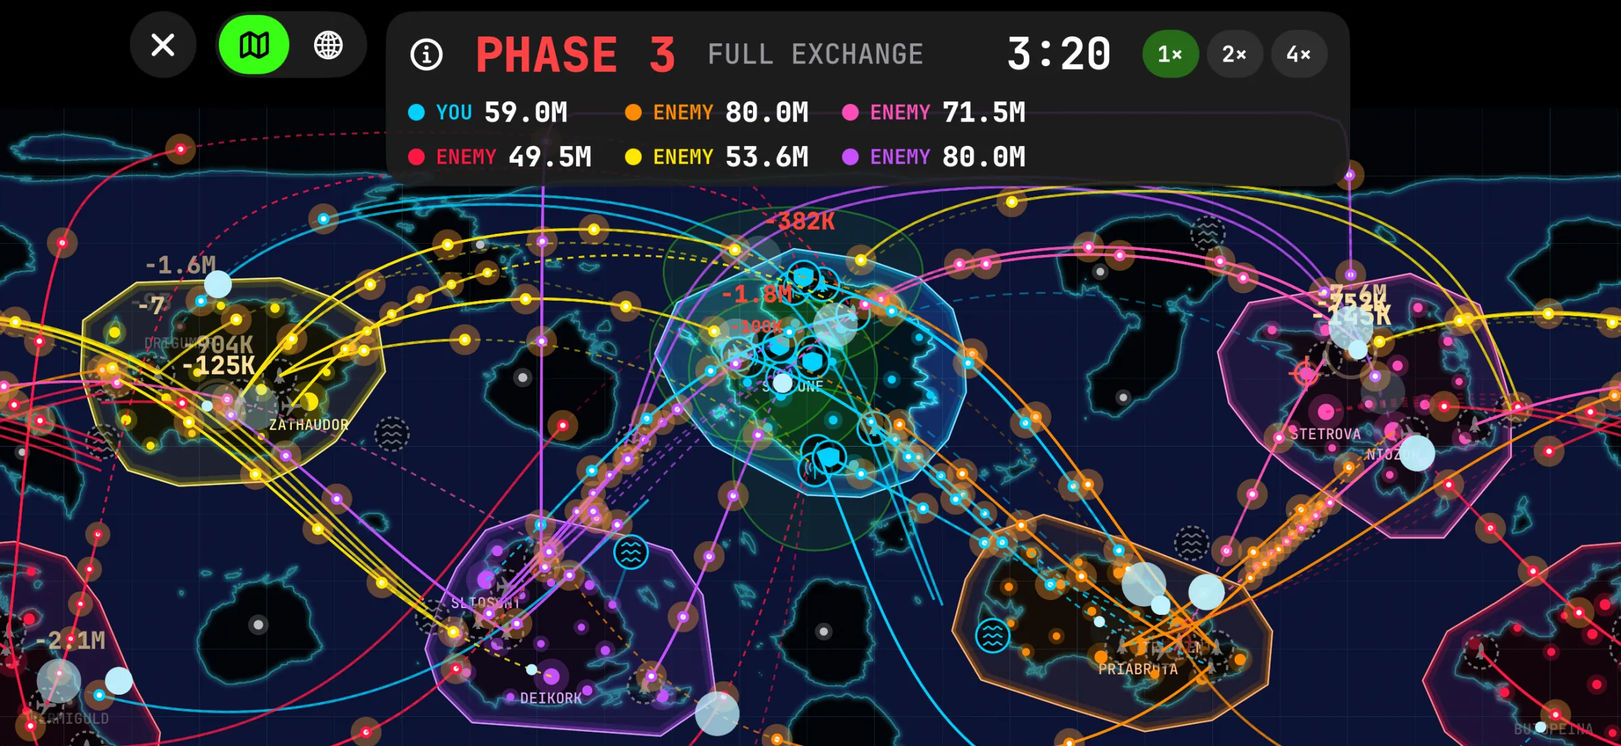
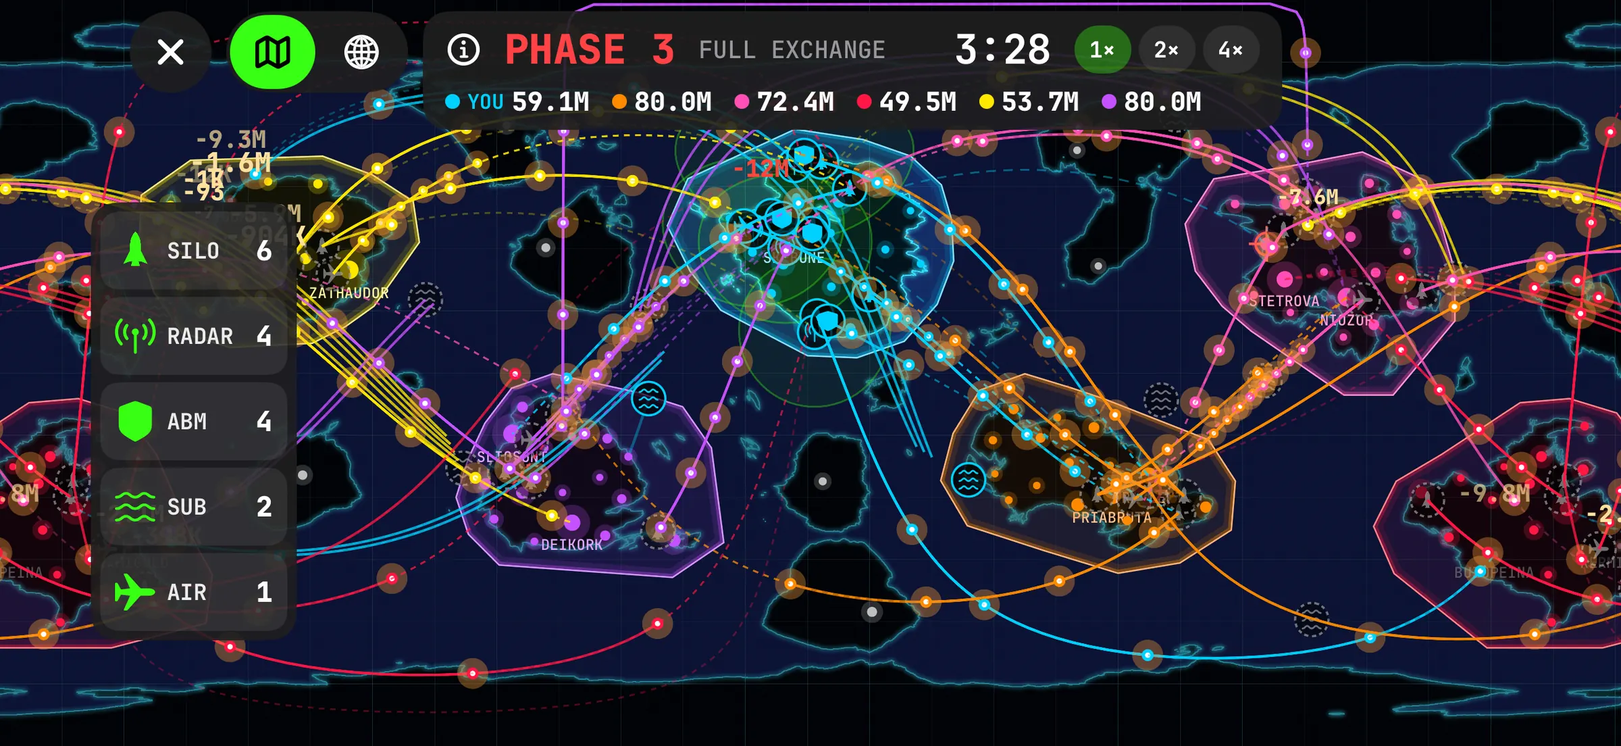
Nuclear Wars: version 1.7 section with the what's-new video
A new section on the project page covers 1.7 (out November 24 on all
three devices): the what's-new video and six changes taken from the
release notes — chased-down intercepts, techno soundtrack with a music
switch, new sound effects, phases voiced in 10 languages, quick unit
switching, matches opening on the 3D globe. Since 1.7 makes the globe
the default on iPhone and iPad, that section now leads with the globe,
its screenshots are retaken on the 3D globe and in AR, and the project
description says the same.

Claude-Session: https://claude.ai/code/session_0161QGWmmV37tMQet8fqUMmh

diff --git a/content/projects.ts b/content/projects.ts
@@ -58,7 +58,7 @@ export const projects: Project[] = [
     featured: true,
     period: { start: "2026-06" },
     released: "2026-09-08",
-    updated: "2026-11-14",
+    updated: "2026-11-25",
     platform: "visionOS, iOS, iPadOS",
     applicationCategory: "GameApplication",
     price: "9.99",
@@ -106,12 +106,13 @@ export const projects: Project[] = [
           "On Apple Vision Pro, Nuclear Wars turns a room into a Cold War command center. A living 3D globe floats in front of the player: drag to rotate, pinch to zoom, walk around it. Every match escalates through three phases — preparation, cold war, full exchange — and there is no winner: when the clock runs out, whoever keeps more of their population alive loses less. Firing reveals a unit's position permanently, and you only see what your radars see, so every launch is a trade-off between striking power and staying hidden.",
           "Under the hood it is Swift, SwiftUI and RealityKit with no game engine. The simulation lives in a pure Swift package with fixed ticks; the render layer only interpolates what it is told. Multiplayer is deterministic lockstep over Game Center: the host is authoritative, clients step only on received tick frames.",
           "Released on the App Store on September 8, 2026 after about three months of solo work and four rounds of App Review: solo play against 1–5 AI commanders, party codes and automatch for up to 6 players with AI filling empty seats, ten store languages, no ads, no accounts, no data collection. It is my second visionOS project, and the hard-won knowledge from both — RealityKit quirks, spatial UI patterns, what App Review asks a game to change and why — became a reusable skill for building visionOS apps with AI agents.",
-          "On November 11, 2026 the game came to iPhone and iPad in the same App Store listing, built from the same codebase: the same simulation package and the same RealityKit globe. On a touch screen the war plays out on a seamless 2D world map by default; one tap switches to the 3D globe or puts it on a real table in AR. Players on iPhone, iPad and Apple Vision Pro meet in the same Game Center matches.",
+          "On November 11, 2026 the game came to iPhone and iPad in the same App Store listing, built from the same codebase: the same simulation package and the same RealityKit globe. On a touch screen the war plays out on the 3D globe or on a seamless 2D world map, one tap apart, and AR puts the globe on a real table. Players on iPhone, iPad and Apple Vision Pro meet in the same Game Center matches.",
+          "Version 1.7, out in late November 2026 on all three devices, rebuilt the intercepts and the sound. A shot-down missile no longer vanishes in a flash: it keeps flying until an interceptor catches it and destroys it in mid-air. Matches got their own techno soundtrack with a music switch, the sound effects were redone, phase announcements are voiced in 10 languages, and units of the same type can be switched quickly. On iPhone and iPad every match now opens on the 3D globe.",
         ],
         highlights: [
           "Spatial 3D globe in RealityKit: territory, fog of war and radar coverage are equirectangular textures on thin concentric spheres instead of overlapping meshes",
           "Deterministic cross-platform lockstep multiplayer over Game Center (GKMatch): authoritative host, tick frames",
-          "iPhone and iPad version: a 2D world map by default, the same RealityKit globe in 3D or on a real table in AR (ARKit), cross-play with Apple Vision Pro",
+          "iPhone and iPad version: the same RealityKit globe (the default since 1.7), a seamless 2D world map, or the globe on a real table in AR (ARKit); cross-play with Apple Vision Pro",
           "Five unit types with real trade-offs — silos (strike or air-defense mode), radars, ABM batteries, submarines, airbases — and a permanent reveal on every launch",
           "Solo against 1–5 AI commanders, Game Center party codes and automatch for up to 6 players, AI fills empty seats",
         ],
@@ -124,12 +125,13 @@ export const projects: Project[] = [
           "На Apple Vision Pro Nuclear Wars превращает комнату в командный центр холодной войны. Живой трёхмерный глобус парит перед игроком: вращайте его перетаскиванием, приближайте щипком, обходите вокруг. Каждый матч проходит три фазы эскалации — подготовка, холодная война, обмен ударами — и победителя нет: когда таймер истекает, кто сохранил больше населения, тот проиграл меньше. Стрельба навсегда раскрывает позицию юнита, а видите вы только то, что видят ваши радары, поэтому каждый пуск — размен между силой удара и скрытностью.",
           "Внутри — Swift, SwiftUI и RealityKit, без игрового движка. Симуляция живёт в отдельном Swift-пакете с фиксированным тиком; рендер только интерполирует то, что ему отдали. Мультиплеер — детерминированный lockstep поверх Game Center: хост авторитетен, клиенты шагают только по полученным тик-кадрам.",
           "Вышла в App Store 8 сентября 2026 года после примерно трёх месяцев соло-работы и четырёх раундов App Review: соло против 1–5 ИИ-командующих, коды группы и автоподбор до 6 игроков, свободные места добирает ИИ, десять языков в сторе, без рекламы, аккаунтов и сбора данных. Это мой второй проект под visionOS, и набитые на двух проектах шишки — особенности RealityKit, паттерны пространственного UI, что и почему просит поменять App Review — стали переиспользуемым скиллом для разработки visionOS-приложений с AI-агентами.",
-          "11 ноября 2026 года игра вышла на iPhone и iPad — в той же записи App Store и из той же кодовой базы: тот же пакет симуляции и тот же глобус на RealityKit. На тач-экране война по умолчанию идёт на бесшовной 2D-карте мира; одно касание — и карта становится 3D-глобусом или встаёт на реальный стол в AR. Игроки на iPhone, iPad и Apple Vision Pro встречаются в одних матчах Game Center.",
+          "11 ноября 2026 года игра вышла на iPhone и iPad — в той же записи App Store и из той же кодовой базы: тот же пакет симуляции и тот же глобус на RealityKit. На тач-экране война идёт на 3D-глобусе или на бесшовной 2D-карте мира — между ними одно касание, а в AR глобус встаёт на реальный стол. Игроки на iPhone, iPad и Apple Vision Pro встречаются в одних матчах Game Center.",
+          "Версия 1.7 вышла в конце ноября 2026 года на всех трёх устройствах и переделала перехваты и звук. Сбитая ракета больше не исчезает во вспышке: она летит дальше, перехватчик догоняет её и уничтожает взрывом в воздухе. У матчей появился свой техно-саундтрек с выключателем музыки, звуковые эффекты сделаны заново, смена фаз озвучена на 10 языках, а между юнитами одного типа можно быстро переключаться. На iPhone и iPad каждый матч теперь открывается на 3D-глобусе.",
         ],
         highlights: [
           "Пространственный 3D-глобус в RealityKit: территории, туман войны и покрытие радаров — эквиректангулярные текстуры на тонких концентрических сферах вместо пересекающихся мешей",
           "Детерминированный кроссплатформенный lockstep-мультиплеер поверх Game Center (GKMatch): авторитетный хост, тик-кадры",
-          "Версия для iPhone и iPad: по умолчанию 2D-карта мира, тот же RealityKit-глобус в 3D или на реальном столе в AR (ARKit), кросс-плей с Apple Vision Pro",
+          "Версия для iPhone и iPad: тот же RealityKit-глобус (с 1.7 — по умолчанию), бесшовная 2D-карта мира или глобус на реальном столе в AR (ARKit); кросс-плей с Apple Vision Pro",
           "Пять типов юнитов с реальными компромиссами — шахты (удар или режим ПВО), радары, батареи ПРО, подлодки, авиабазы — и необратимое раскрытие при каждом пуске",
           "Соло против 1–5 ИИ-командующих, коды группы и автоподбор Game Center до 6 игроков, пустые места занимает ИИ",
         ],
@@ -142,12 +144,13 @@ export const projects: Project[] = [
           "En Apple Vision Pro, Nuclear Wars convierte una habitación en un centro de mando de la Guerra Fría. Un globo 3D vivo flota delante del jugador: arrástralo para girarlo, pellizca para acercarlo, camina a su alrededor. Cada partida escala en tres fases — preparación, guerra fría, intercambio total — y no hay ganador: cuando se agota el reloj, quien conserva más población pierde menos. Disparar revela la posición de una unidad para siempre, y solo ves lo que ven tus radares, así que cada lanzamiento es un intercambio entre potencia de ataque y sigilo.",
           "Por dentro es Swift, SwiftUI y RealityKit, sin motor de juego. La simulación vive en un paquete Swift puro con ticks fijos; la capa de render solo interpola lo que recibe. El multijugador es lockstep determinista sobre Game Center: el anfitrión es autoritativo, los clientes solo avanzan con los tick frames recibidos.",
           "Publicado en la App Store el 8 de septiembre de 2026 tras unos tres meses de trabajo en solitario y cuatro rondas de App Review: modo solo contra 1–5 comandantes IA, códigos de grupo y emparejamiento automático para hasta 6 jugadores con IA ocupando los asientos libres, diez idiomas en la tienda, sin anuncios, sin cuentas, sin recogida de datos. Es mi segundo proyecto para visionOS, y lo aprendido a golpes en ambos — peculiaridades de RealityKit, patrones de UI espacial, qué pide cambiar App Review a un juego y por qué — se convirtió en una skill reutilizable para construir apps de visionOS con agentes de IA.",
-          "El 11 de noviembre de 2026 el juego llegó a iPhone y iPad, en la misma ficha de la App Store y desde el mismo código: el mismo paquete de simulación y el mismo globo de RealityKit. En una pantalla táctil la guerra se juega por defecto en un mapa del mundo 2D continuo; con un toque pasa al globo 3D o se coloca sobre una mesa real en realidad aumentada. Los jugadores de iPhone, iPad y Apple Vision Pro se enfrentan en las mismas partidas de Game Center.",
+          "El 11 de noviembre de 2026 el juego llegó a iPhone y iPad, en la misma ficha de la App Store y desde el mismo código: el mismo paquete de simulación y el mismo globo de RealityKit. En una pantalla táctil la guerra se juega en el globo 3D o en un mapa del mundo 2D continuo, a un toque de distancia, y la realidad aumentada coloca el globo sobre una mesa real. Los jugadores de iPhone, iPad y Apple Vision Pro se enfrentan en las mismas partidas de Game Center.",
+          "La versión 1.7, publicada a finales de noviembre de 2026 en los tres dispositivos, rehízo las intercepciones y el sonido. Un misil derribado ya no desaparece en un destello: sigue volando hasta que un interceptor lo alcanza y lo destruye en el aire. Las partidas tienen su propia banda sonora techno con un interruptor de música, los efectos de sonido son nuevos, los anuncios de fase tienen voz en 10 idiomas y se puede cambiar rápido entre unidades del mismo tipo. En iPhone y iPad cada partida empieza ahora en el globo 3D.",
         ],
         highlights: [
           "Globo 3D espacial en RealityKit: territorio, niebla de guerra y cobertura de radar son texturas equirectangulares sobre finas esferas concéntricas en lugar de mallas superpuestas",
           "Multijugador lockstep determinista y multiplataforma sobre Game Center (GKMatch): anfitrión autoritativo, tick frames",
-          "Versión para iPhone y iPad: mapa del mundo 2D por defecto, el mismo globo de RealityKit en 3D o sobre una mesa real en RA (ARKit), juego cruzado con Apple Vision Pro",
+          "Versión para iPhone y iPad: el mismo globo de RealityKit (por defecto desde la 1.7), un mapa del mundo 2D continuo o el globo sobre una mesa real en RA (ARKit); juego cruzado con Apple Vision Pro",
           "Cinco tipos de unidad con compromisos reales — silos (ataque o modo antiaéreo), radares, baterías ABM, submarinos, bases aéreas — y revelado permanente en cada lanzamiento",
           "Solo contra 1–5 comandantes IA, códigos de grupo y emparejamiento automático de Game Center para hasta 6 jugadores, la IA ocupa los asientos libres",
         ],

diff --git a/content/landings/nuclear-wars.ts b/content/landings/nuclear-wars.ts
@@ -22,8 +22,80 @@ export const nuclearWarsLanding = {
     ru: ["Apple Vision Pro", "iPhone и iPad", "Кросс-плей", "До 6 игроков", "Game Center", "1–5 ИИ-командующих", "Без рекламы", "Без аккаунтов", "Без сбора данных", "10 языков", "Нативный RealityKit"],
     es: ["Apple Vision Pro", "iPhone y iPad", "Juego cruzado", "Hasta 6 jugadores", "Game Center", "1–5 comandantes IA", "Sin anuncios", "Sin cuentas", "Sin recogida de datos", "10 idiomas", "RealityKit nativo"],
   } satisfies Localized<string[]>,
+  update: {
+    kicker: { en: "Version 1.7", ru: "Версия 1.7", es: "Versión 1.7" } satisfies Localized,
+    title: { en: "Intercepts you can watch.", ru: "Перехват, который видно.", es: "Intercepciones que se ven." } satisfies Localized,
+    lead: {
+      en: "Version 1.7 rebuilt the intercepts and all of the sound, on Apple Vision Pro, iPhone and iPad.",
+      ru: "В версии 1.7 переделаны перехваты и весь звук — на Apple Vision Pro, iPhone и iPad.",
+      es: "La versión 1.7 rehace las intercepciones y todo el sonido, en Apple Vision Pro, iPhone y iPad.",
+    } satisfies Localized,
+    video: {
+      id: "hlTb57c13Dw",
+      title: {
+        en: "What’s new in Nuclear Wars 1.7 (Apple Vision Pro, iPhone, iPad)",
+        ru: "Что нового в Nuclear Wars 1.7 (Apple Vision Pro, iPhone, iPad)",
+        es: "Novedades de Nuclear Wars 1.7 (Apple Vision Pro, iPhone, iPad)",
+      } satisfies Localized,
+      caption: {
+        en: "What’s new in 1.7 in under a minute, on Apple Vision Pro, iPhone and iPad.",
+        ru: "Что нового в 1.7 — меньше чем за минуту, на Apple Vision Pro, iPhone и iPad.",
+        es: "Las novedades de la 1.7 en menos de un minuto, en Apple Vision Pro, iPhone y iPad.",
+      } satisfies Localized,
+    },
+    items: [
+      {
+        name: { en: "Interceptors chase missiles down", ru: "Перехватчик догоняет ракету", es: "El interceptor persigue al misil" },
+        text: {
+          en: "A shot-down missile no longer vanishes in a flash: it keeps flying until an interceptor catches it and destroys it in mid-air.",
+          ru: "Сбитая ракета больше не исчезает во вспышке: она летит дальше, перехватчик догоняет её и уничтожает взрывом в воздухе.",
+          es: "Un misil derribado ya no desaparece en un destello: sigue volando hasta que un interceptor lo alcanza y lo destruye en el aire.",
+        },
+      },
+      {
+        name: { en: "Its own soundtrack", ru: "Свой саундтрек", es: "Banda sonora propia" },
+        text: {
+          en: "A driving techno track for matches and a new menu theme. Music switches on and off in the menu and mid-match.",
+          ru: "Напористый техно-трек для матчей и новая тема меню. Музыку можно включить или выключить в меню и прямо в матче.",
+          es: "Un tema techno enérgico para las partidas y un nuevo tema de menú. La música se activa o desactiva en el menú y durante la partida.",
+        },
+      },
+      {
+        name: { en: "Reworked sound effects", ru: "Новые звуковые эффекты", es: "Efectos de sonido renovados" },
+        text: {
+          en: "Launches, intercepts, alerts, radar pings and unit placement all got new sounds.",
+          ru: "Пуски, перехваты, тревоги, сигналы радаров и расстановка юнитов звучат по-новому.",
+          es: "Lanzamientos, intercepciones, alertas, señales de radar y despliegue de unidades suenan de nuevo.",
+        },
+      },
+      {
+        name: { en: "Phases voiced in 10 languages", ru: "Фазы озвучены на 10 языках", es: "Fases con voz en 10 idiomas" },
+        text: {
+          en: "Every phase change is now announced by voice, in all 10 of the game’s languages.",
+          ru: "Смена фазы теперь объявляется голосом — на всех 10 языках игры.",
+          es: "Cada cambio de fase se anuncia ahora con voz, en los 10 idiomas del juego.",
+        },
+      },
+      {
+        name: { en: "Quick unit switching", ru: "Быстрая смена юнитов", es: "Cambio rápido de unidad" },
+        text: {
+          en: "Quickly switch between units of the same type, with a sound on every switch and haptic feedback on iPhone and iPad.",
+          ru: "Быстро переключайтесь между юнитами одного типа: у переключения есть звук, а на iPhone и iPad — тактильный отклик.",
+          es: "Cambia rápido entre unidades del mismo tipo, con sonido en cada cambio y respuesta háptica en iPhone y iPad.",
+        },
+      },
+      {
+        name: { en: "3D globe first", ru: "Сразу на 3D-глобусе", es: "Primero, el globo 3D" },
+        text: {
+          en: "On iPhone and iPad every match now opens on the 3D globe; the 2D map is one tap away.",
+          ru: "На iPhone и iPad каждый матч теперь открывается на 3D-глобусе, а 2D-карта — в одном касании.",
+          es: "En iPhone y iPad cada partida empieza ahora en el globo 3D; el mapa 2D está a un toque.",
+        },
+      },
+    ] satisfies { name: Localized; text: Localized }[],
+  },
   mobile: {
-    kicker: { en: "New", ru: "Новинка", es: "Novedad" } satisfies Localized,
+    kicker: { en: "Cross-play", ru: "Кросс-плей", es: "Juego cruzado" } satisfies Localized,
     title: { en: "Now on iPhone and iPad.", ru: "Теперь на iPhone и iPad.", es: "Ahora en iPhone y iPad." } satisfies Localized,
     lead: {
       en: "The same war, built for touch — and cross-play puts iPhone, iPad and Apple Vision Pro commanders in the same match.",
@@ -32,19 +104,19 @@ export const nuclearWarsLanding = {
     } satisfies Localized,
     modes: [
       {
-        name: { en: "2D map", ru: "2D-карта", es: "Mapa 2D" },
+        name: { en: "3D globe", ru: "3D-глобус", es: "Globo 3D" },
         text: {
-          en: "A seamless world map that wraps around the planet. Tap a unit to command it, tap the map to set a target.",
-          ru: "Бесшовная карта мира вокруг всей планеты. Касание юнита — приказ, касание карты — цель.",
-          es: "Un mapa del mundo continuo que rodea el planeta. Toca una unidad para darle órdenes y el mapa para fijar un objetivo.",
+          en: "Every match opens on the same RealityKit globe as on Apple Vision Pro.",
+          ru: "Каждый матч открывается на том же RealityKit-глобусе, что и на Apple Vision Pro.",
+          es: "Cada partida empieza en el mismo globo de RealityKit que en Apple Vision Pro.",
         },
       },
       {
-        name: { en: "3D globe", ru: "3D-глобус", es: "Globo 3D" },
+        name: { en: "2D map", ru: "2D-карта", es: "Mapa 2D" },
         text: {
-          en: "One tap turns the map into the same RealityKit globe as on Apple Vision Pro.",
-          ru: "Одно касание — и карта становится тем же RealityKit-глобусом, что и на Apple Vision Pro.",
-          es: "Un toque convierte el mapa en el mismo globo de RealityKit que en Apple Vision Pro.",
+          en: "One tap flattens the globe into a seamless world map. Tap a unit to command it, tap the map to set a target.",
+          ru: "Одно касание — и глобус разворачивается в бесшовную карту мира. Касание юнита — приказ, касание карты — цель.",
+          es: "Un toque despliega el globo en un mapa del mundo continuo. Toca una unidad para darle órdenes y el mapa para fijar un objetivo.",
         },
       },
       {
@@ -57,6 +129,46 @@ export const nuclearWarsLanding = {
       },
     ] satisfies { name: Localized; text: Localized }[],
     screenshots: [
+      {
+        src: "/media/nuclear-wars/ios-globe-war.webp",
+        width: 2400,
+        height: 1104,
+        alt: {
+          en: "iPhone, 3D globe in the full exchange: explosions over your sector, radar rings and incoming missile trails, with the unit column and the match HUD",
+          ru: "iPhone, 3D-глобус во время обмена ударами: взрывы над вашим сектором, кольца радаров и следы летящих ракет, слева колонка юнитов, сверху HUD матча",
+          es: "iPhone, globo 3D en el intercambio total: explosiones sobre tu sector, anillos de radar y estelas de misiles entrantes, con la columna de unidades y el HUD de la partida",
+        },
+      },
+      {
+        src: "/media/nuclear-wars/ios-explosion.webp",
+        width: 2400,
+        height: 1104,
+        alt: {
+          en: "iPhone, 3D globe up close: a mushroom cloud rises over your territory as damage numbers pop up next to an airbase and radars",
+          ru: "iPhone, 3D-глобус крупно: ядерный гриб встаёт над вашей территорией, рядом с авиабазой и радарами всплывают цифры потерь",
+          es: "iPhone, globo 3D de cerca: un hongo nuclear se alza sobre tu territorio mientras aparecen las cifras de daños junto a una base aérea y radares",
+        },
+      },
+      {
+        src: "/media/nuclear-wars/ios-globe-deploy.webp",
+        width: 2400,
+        height: 1104,
+        alt: {
+          en: "iPhone, preparation phase on the 3D globe: silos, radars and ABM batteries placed across your sector, with the unit column on the left",
+          ru: "iPhone, фаза подготовки на 3D-глобусе: шахты, радары и батареи ПРО расставлены по вашему сектору, слева колонка юнитов",
+          es: "iPhone, fase de preparación en el globo 3D: silos, radares y baterías ABM desplegados en tu sector, con la columna de unidades a la izquierda",
+        },
+      },
+      {
+        src: "/media/nuclear-wars/ios-ar-table.webp",
+        width: 2400,
+        height: 1104,
+        alt: {
+          en: "iPhone in AR: the battle globe stands in a real room during the full exchange, with missile tracks crossing over it",
+          ru: "iPhone в AR: боевой глобус стоит в настоящей комнате во время обмена ударами, над ним пересекаются траектории ракет",
+          es: "iPhone en RA: el globo de batalla está en una habitación real durante el intercambio total, con trayectorias de misiles cruzándolo",
+        },
+      },
       {
         src: "/media/nuclear-wars/ios-map-war.webp",
         width: 2400,
@@ -75,26 +187,6 @@ export const nuclearWarsLanding = {
           en: "iPhone, 2D map up close: a salvo hits an enemy continent as damage numbers pop up",
           ru: "iPhone, 2D-карта крупно: залп накрывает вражеский континент, всплывают цифры потерь",
           es: "iPhone, mapa 2D de cerca: una salva impacta en un continente enemigo mientras aparecen las cifras de daños",
-        },
-      },
-      {
-        src: "/media/nuclear-wars/ios-globe.webp",
-        width: 2400,
-        height: 1104,
-        alt: {
-          en: "iPhone, 3D globe mode: explosions over your sector, radar coverage and incoming missiles, with the match HUD",
-          ru: "iPhone, режим 3D-глобуса: взрывы над вашим сектором, покрытие радаров и летящие ракеты, сверху HUD матча",
-          es: "iPhone, modo globo 3D: explosiones sobre tu sector, cobertura de radar y misiles entrantes, con el HUD de la partida",
-        },
-      },
-      {
-        src: "/media/nuclear-wars/ios-globe-close.webp",
-        width: 2400,
-        height: 1104,
-        alt: {
-          en: "iPhone, 3D globe up close: mushroom clouds rise over your cities among silos, radars and airbases",
-          ru: "iPhone, 3D-глобус крупно: ядерные грибы встают над вашими городами среди шахт, радаров и авиабаз",
-          es: "iPhone, globo 3D de cerca: hongos nucleares se alzan sobre tus ciudades entre silos, radares y bases aéreas",
         },
       },
     ] satisfies { src: string; width: number; height: number; alt: Localized }[],

diff --git a/components/projects/nuclear-wars/NuclearWarsLanding.tsx b/components/projects/nuclear-wars/NuclearWarsLanding.tsx
@@ -25,7 +25,7 @@ const NO_WINNERS_IMAGE = "/media/nuclear-wars/impact.webp";
 const delay = (i: number) => ({ "--i": i }) as CSSProperties;
 
 /**
- * Landing-style page of Nuclear Wars: full-screen hero, the iPhone and iPad version, the three match phases with gameplay clips, the
+ * Landing-style page of Nuclear Wars: full-screen hero, what's new in 1.7 (video and changes), the iPhone and iPad version, the three match phases with gameplay clips, the
  * "no winners" hook, units, metrics, gallery, the build story and a closing call to action — over a sky of
  * missiles (`NuclearSky`). Motion lives in the `[data-project-theme="nuclear-wars"]` rules of app/globals.css.
  */
@@ -88,6 +88,36 @@ export function NuclearWarsLanding({ project, locale, dict }: { project: Project
         </div>
       </div>
 
+      {/* Version 1.7 */}
+      <section className="pt-24">
+        <header data-reveal className="max-w-2xl">
+          <p className="text-xs font-bold uppercase tracking-[0.3em] text-accent">{copy.update.kicker[locale]}</p>
+          <h2 className="nw-h2 mt-3">{copy.update.title[locale]}</h2>
+          <p className="mt-4 text-lg text-ink2">{copy.update.lead[locale]}</p>
+        </header>
+        <figure className="mt-10" data-reveal>
+          <div className="aspect-video overflow-hidden rounded-xl border border-line bg-surface">
+            <iframe
+              className="h-full w-full"
+              src={`https://www.youtube-nocookie.com/embed/${copy.update.video.id}`}
+              title={copy.update.video.title[locale]}
+              allow="accelerometer; encrypted-media; picture-in-picture"
+              allowFullScreen
+              loading="lazy"
+            />
+          </div>
+          <figcaption className="mt-3 text-center text-xs tracking-wide text-muted">{copy.update.video.caption[locale]}</figcaption>
+        </figure>
+        <ul className="mt-10 grid gap-3 sm:grid-cols-2 lg:grid-cols-3">
+          {copy.update.items.map((item, i) => (
+            <li key={item.name.en} className="nw-card" data-reveal style={delay(i)}>
+              <p className="font-bold text-ink">{item.name[locale]}</p>
+              <p className="mt-1 text-sm leading-relaxed text-ink2">{item.text[locale]}</p>
+            </li>
+          ))}
+        </ul>
+      </section>
+
       {/* iPhone and iPad */}
       <section className="pt-24">
         <header data-reveal className="max-w-2xl">
@@ -103,7 +133,7 @@ export function NuclearWarsLanding({ project, locale, dict }: { project: Project
             </li>
           ))}
         </ul>
-        <div className="nw-wide mt-6 grid gap-3 sm:grid-cols-2" data-reveal>
+        <div className="nw-wide mt-6 grid grid-cols-1 gap-3 sm:grid-cols-2" data-reveal>
           <ImageLightbox images={copy.mobile.screenshots.map((s) => ({ ...s, alt: s.alt[locale] }))} labels={dict.projects.gallery} />
         </div>
       </section>

diff --git a/checks/seo.test.ts b/checks/seo.test.ts
@@ -125,7 +125,8 @@ test("project pages: typed entity with breadcrumb; talk has location and video",
   assert.equal(game.video?.["@type"], "VideoObject");
   assert.match(nw, /youtube-nocookie\.com\/embed\/I-g6ItBY7aM/, "trailer embed");
   assert.match(nw, /<img[^>]+src="\/media\/nuclear-wars\/impact\.webp"[^>]+alt="[^"]{20,}"/, "gallery image with alt");
-  assert.match(nw, /<img[^>]+src="\/media\/nuclear-wars\/ios-globe\.webp"[^>]+alt="[^"]{20,}"/, "iPhone screenshot with alt");
+  assert.match(nw, /<img[^>]+src="\/media\/nuclear-wars\/ios-globe-war\.webp"[^>]+alt="[^"]{20,}"/, "iPhone screenshot with alt");
+  assert.match(nw, /youtube-nocookie\.com\/embed\/hlTb57c13Dw/, "1.7 video embed");
   for (const l of LOCALES) {
     const landing = html(path.join(OUT, l, "projects", "nuclear-wars", "index.html"));
     for (const doc of ["privacy", "terms"]) {
